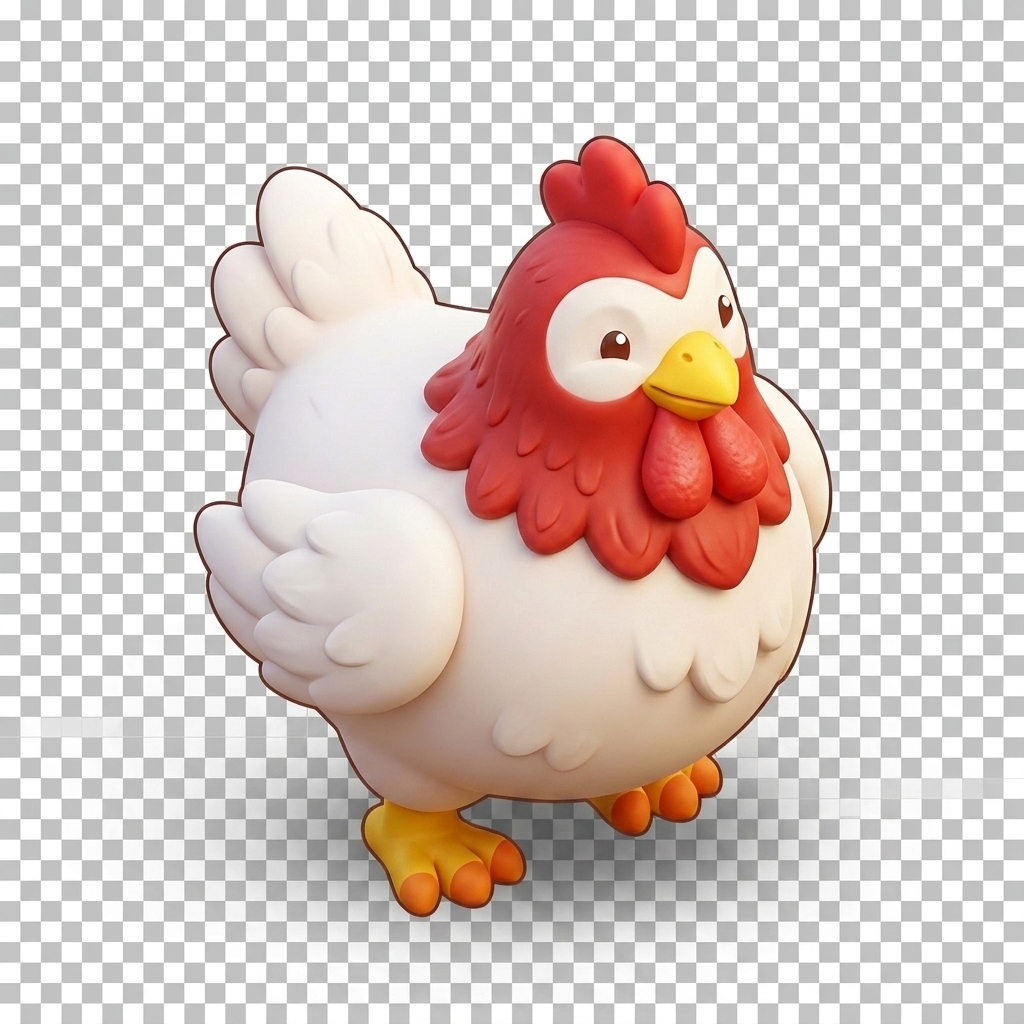
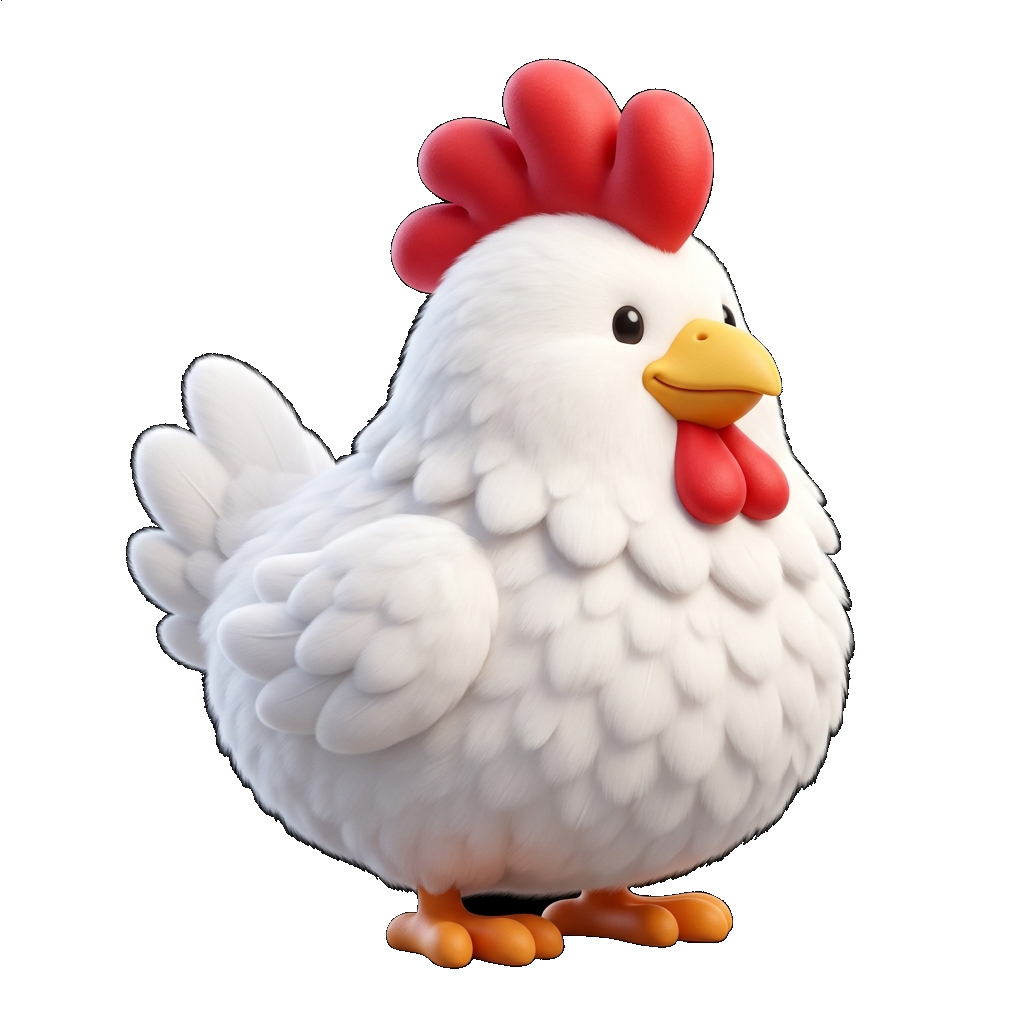
fix: remove image background using python PIL floodfill and fix wallet socket query params

diff --git a/public/chicken-road.html b/public/chicken-road.html
@@ -1109,7 +1109,7 @@ async function initUserSession() {
     if (!userId) userId = '123456789';
 
     socket = io(window.location.origin, {
-      auth: { userId, initData: tg?.initData || '' },
+      query: { userId, initData: tg?.initData || '' },
       transports: ['websocket','polling']
     });
 